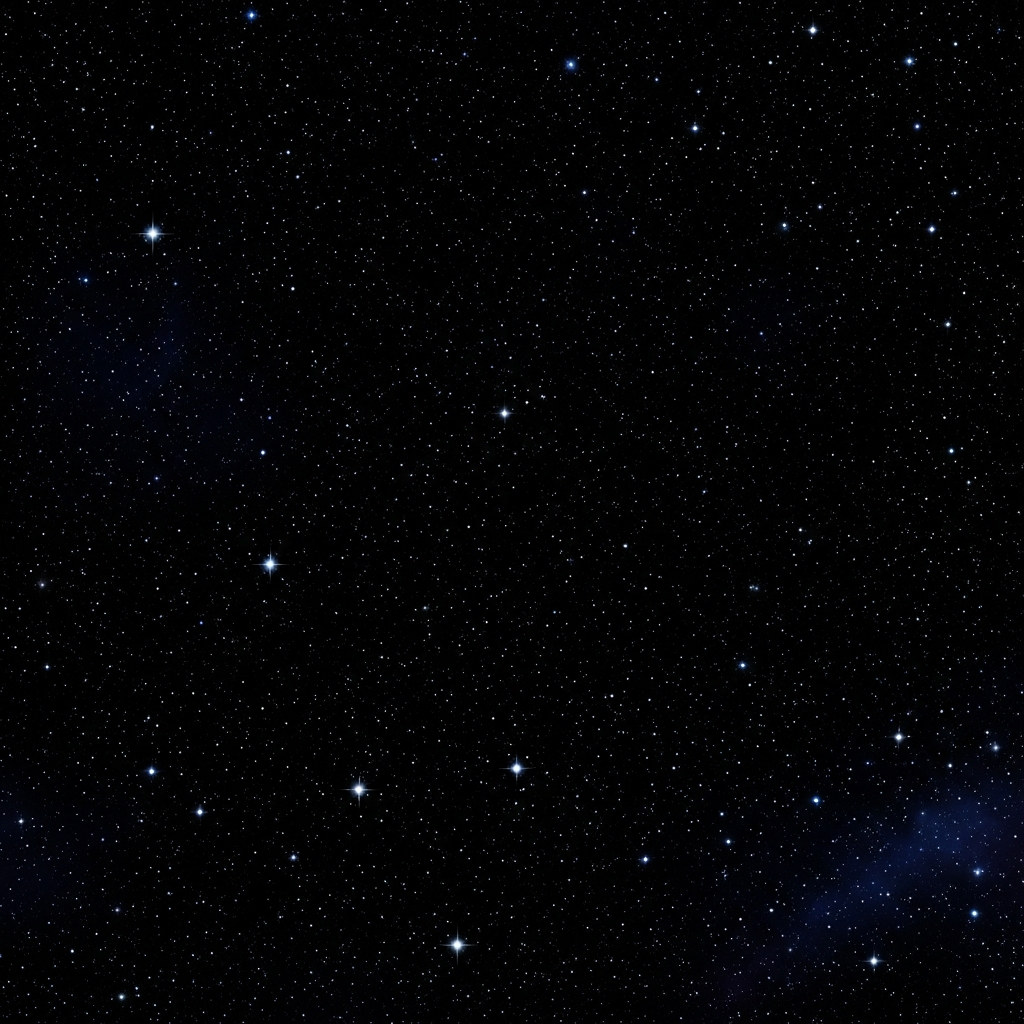
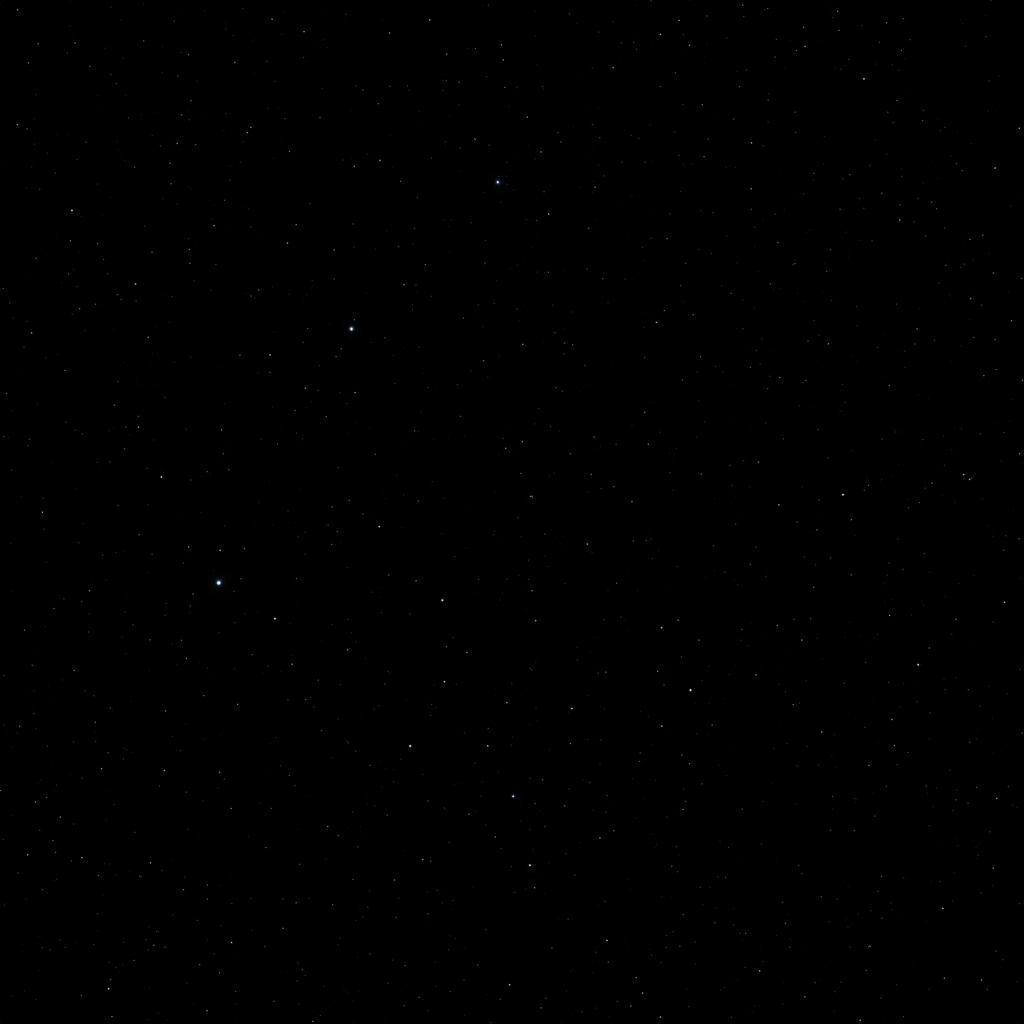
Adjust galaxy image fade and background star density
Update GalaxyMap component to use a sparser starfield background image and widen the radial gradient fade on the main galaxy image from 60% to 85%.

Replit-Commit-Author: Agent
Replit-Commit-Session-Id: b0b4c11e-aa52-4ab0-b2b0-86a2e4e7cfd7
Replit-Commit-Checkpoint-Type: full_checkpoint
Replit-Commit-Event-Id: 205ac7dc-62ba-49b0-8539-6a626d372600
Replit-Commit-Screenshot-Url: https://storage.googleapis.com/screenshot-production-us-central1/cce723cc-92a2-4429-893e-b26478f7a821/b0b4c11e-aa52-4ab0-b2b0-86a2e4e7cfd7/6zW9cYj
Replit-Helium-Checkpoint-Created: true

diff --git a/client/src/components/GalaxyMap.tsx b/client/src/components/GalaxyMap.tsx
@@ -211,8 +211,8 @@ export const GalaxyMap = () => {
                     backgroundSize: '100% 100%',
                     backgroundRepeat: 'no-repeat',
                     backgroundPosition: 'center',
-                    mask: 'radial-gradient(ellipse at center, black 60%, transparent 100%)',
-                    WebkitMask: 'radial-gradient(ellipse at center, black 60%, transparent 100%)',
+                    mask: 'radial-gradient(ellipse at center, black 40%, transparent 85%)',
+                    WebkitMask: 'radial-gradient(ellipse at center, black 40%, transparent 85%)',
                   }}
                 />
                 
